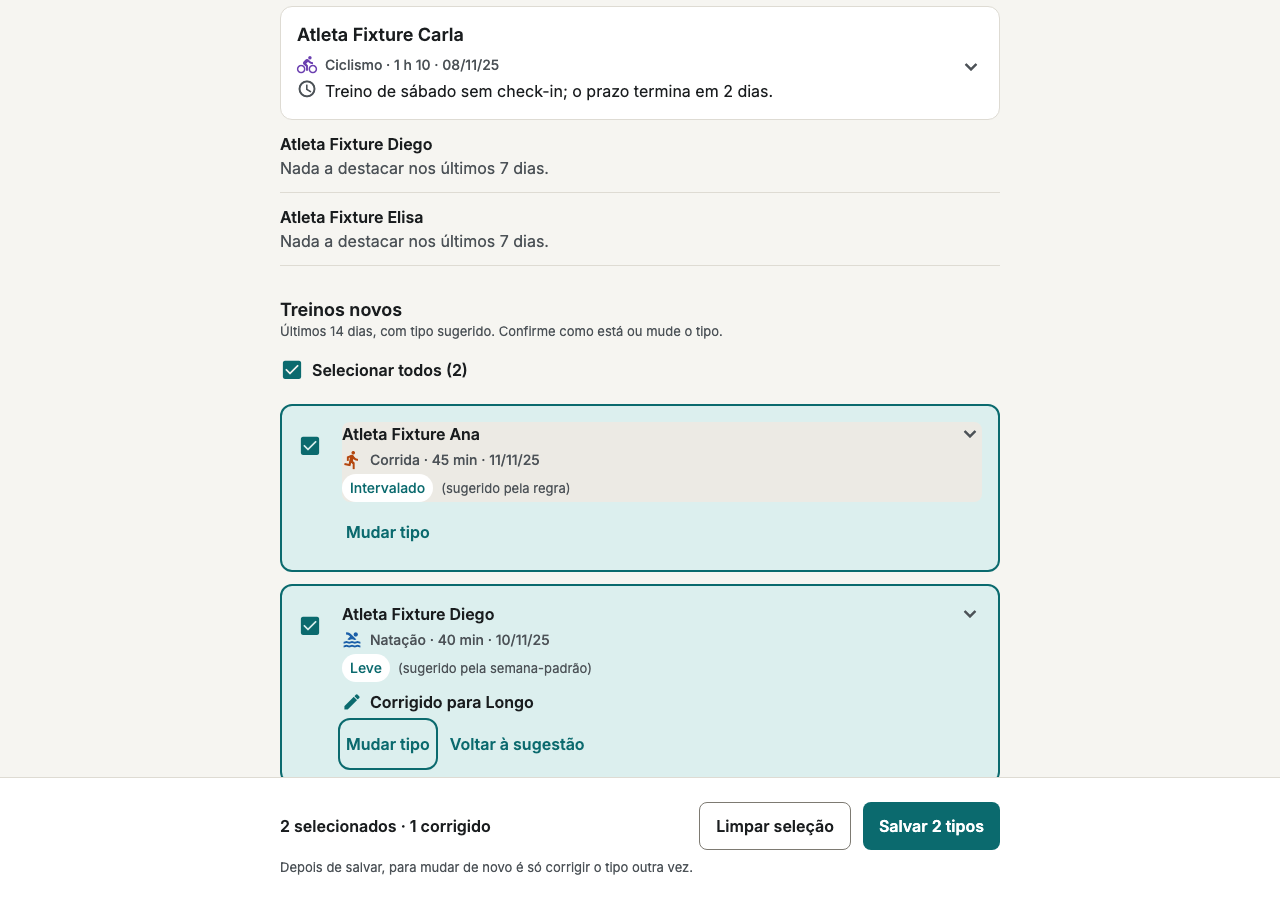
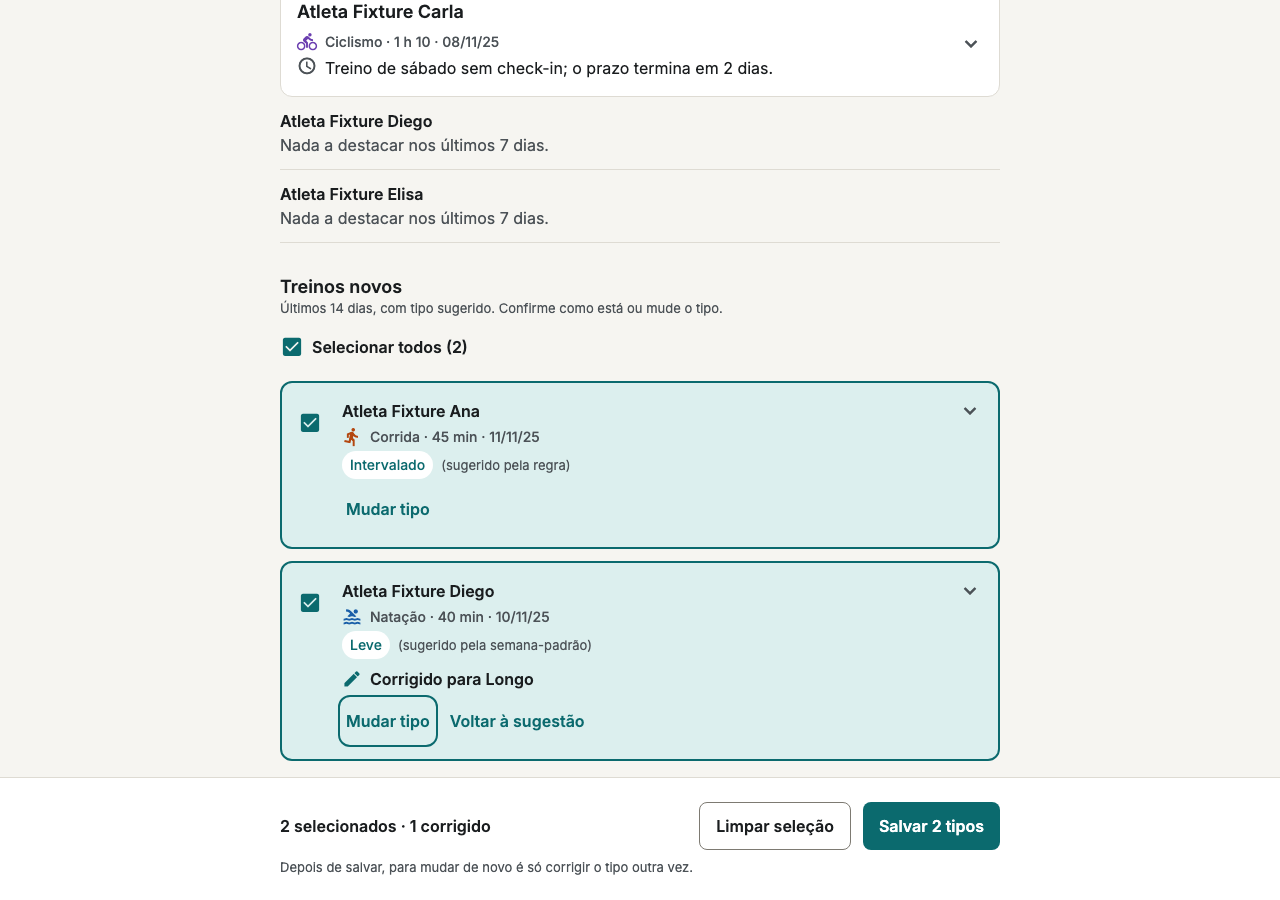
Caixa do dia: espaco medido da barra, fundo da folha fora do foco e texto do feedback pendente (Closes #452)

Changed region(s): [[0.2188, 0.3111, 0.7812, 0.8711], [0.2188, 0.0, 0.5938, 0.28]]

diff --git a/apps/mobile/__tests__/AjustesCaixaDoDia.test.tsx b/apps/mobile/__tests__/AjustesCaixaDoDia.test.tsx
@@ -1,0 +1,101 @@
+// Ajustes da revisão da Lia na caixa rodando (#452): espaço medido da barra, fundo da folha e texto do feedback pendente.
+import { fireEvent, render, screen, within } from "@testing-library/react-native";
+
+import type { CaixaDoDia } from "../src/caixa/api";
+import { TelaCaixaDoDia } from "../src/componentes/TelaCaixaDoDia";
+import { caixa } from "../__fixtures__/caixaDoDia";
+
+jest.mock("@expo/vector-icons", () => {
+  const { Text } = require("react-native");
+  return { MaterialIcons: ({ name, size }: { name: string; size: number }) => <Text>{`${name}:${size}`}</Text> };
+});
+
+jest.setTimeout(20000);
+
+const resposta = (status: number, corpo: unknown) => ({ ok: status >= 200 && status < 300, status, json: async () => corpo }) as Response;
+const copia = (): CaixaDoDia => JSON.parse(JSON.stringify(caixa));
+const api = (get: CaixaDoDia = caixa, put: () => Response = () => resposta(200, { confirmados: 1, corrigidos: 0 })) =>
+  jest.fn(async (_u: RequestInfo | URL, init?: RequestInit) => (init?.method === "PUT" ? put() : resposta(200, get))) as unknown as typeof fetch;
+const aberta = async (f: typeof fetch) => {
+  await render(<TelaCaixaDoDia apiUrl="http://api.teste" professorId={7} fetchFn={f} />);
+  await screen.findByTestId("resumo");
+};
+const espacoFinal = () => {
+  const estilo = [screen.getByTestId("rolagem-tela").props.contentContainerStyle].flat(5).filter(Boolean);
+  return estilo.reduce((a: number | undefined, x: { paddingBottom?: number }) => x.paddingBottom ?? a, undefined) as number | undefined;
+};
+const medir = (altura: number) => fireEvent(screen.getByTestId("barra-lote"), "layout", { nativeEvent: { layout: { x: 0, y: 0, width: 390, height: altura } } });
+
+describe("espaço no fim da lista = altura medida da barra + espaco.4", () => {
+  it("usa a altura medida (e não um valor fixo)", async () => {
+    await aberta(api());
+    await fireEvent.press(screen.getByTestId("selecionar-511"));
+    await medir(171);
+    expect(espacoFinal()).toBe(171 + 16);
+  });
+
+  it("acompanha a barra quando ela cresce com o aviso de erro e quando encolhe", async () => {
+    const f = api(caixa, () => resposta(404, { detail: [{ type: "atividade_nao_encontrada" }] }));
+    await aberta(f);
+    await fireEvent.press(screen.getByTestId("selecionar-511"));
+    await medir(140);
+    expect(espacoFinal()).toBe(156);
+    await fireEvent.press(screen.getByText("Salvar 1 tipo"));
+    await screen.findByTestId("erro-lote");
+    await medir(236);
+    expect(espacoFinal()).toBe(252);
+    await medir(140);
+    expect(espacoFinal()).toBe(156);
+  });
+
+  it("sem barra, não reserva espaço extra", async () => {
+    await aberta(api());
+    expect(espacoFinal()).toBeUndefined();
+  });
+});
+
+describe("fundo da folha de tipo", () => {
+  it("fica fora da ordem de foco e da árvore de acessibilidade; só o botão 'Fechar' tem esse rótulo", async () => {
+    await aberta(api());
+    await fireEvent.press(screen.getByTestId("mudar-tipo-511"));
+    const fundo = screen.getByTestId("fundo-folha", { includeHiddenElements: true });
+    expect(fundo.props.accessible).toBe(false);
+    expect(fundo.props.focusable).toBe(false);
+    expect(fundo.props["aria-hidden"]).toBe(true);
+    expect(fundo.props.importantForAccessibility).toBe("no");
+    expect(fundo.props.accessibilityLabel).toBeUndefined();
+    expect(screen.getAllByLabelText("Fechar")).toHaveLength(1);
+  });
+
+  it("tocar no fundo e o botão 'Fechar' continuam fechando; a folha não fica dentro do fundo oculto", async () => {
+    await aberta(api());
+    await fireEvent.press(screen.getByTestId("mudar-tipo-511"));
+    await fireEvent.press(screen.getByTestId("fundo-folha", { includeHiddenElements: true }));
+    expect(screen.queryByText("Tipo do treino")).toBeNull();
+    await fireEvent.press(screen.getByTestId("mudar-tipo-511"));
+    expect(screen.getByText("Tipo do treino")).toBeTruthy();
+    await fireEvent.press(screen.getByLabelText("Fechar"));
+    expect(screen.queryByText("Tipo do treino")).toBeNull();
+  });
+});
+
+describe("feedback pendente na caixa", () => {
+  it("diz 'O feedback ainda não está pronto.' e não manda tocar em Atualizar", async () => {
+    const c = copia();
+    c.alunos[0].treinos[0].detalhe.feedback = {
+      estado: "pendente",
+      mensagem: "O feedback deste treino ainda não foi gerado. Toque em Atualizar para ver se já está pronto.",
+    };
+    await aberta(api(c));
+    await fireEvent.press(screen.getByTestId("treino-501"));
+    const d = screen.getByTestId("detalhe-501");
+    expect(within(d).getByText("O feedback ainda não está pronto.")).toBeTruthy();
+    expect(screen.queryByText(/Toque em Atualizar/)).toBeNull();
+  });
+
+  it("os outros estados seguem a mensagem da API", async () => {
+    await aberta(api());
+    await fireEvent.press(screen.getByTestId("treino-503"));
+    expect(within(screen.getByTestId("detalhe-503")).getByText("O prazo do check-in deste treino acabou.")).toBeTruthy();
+  });
+});

diff --git a/apps/mobile/src/componentes/TelaCaixaDoDia.tsx b/apps/mobile/src/componentes/TelaCaixaDoDia.tsx
@@ -95,6 +95,8 @@ export function TelaCaixaDoDia({ apiUrl, professorId, fetchFn }: Props) {
   const [sucesso, setSucesso] = useState<string | null>(null);
   const [folha, setFolha] = useState<number | null>(null);
   const [anuncio, setAnuncio] = useState("");
+  // Altura medida da barra de lote: o fim da lista reserva essa altura mais `espaco.4` (muda com o aviso de erro aberto).
+  const [alturaBarra, setAlturaBarra] = useState(0);
   const rolagem = useRef<ComponentRef<typeof ScrollView>>(null);
   const tituloNovos = useRef<ComponentRef<typeof Text>>(null);
   const linhasNovas = useRef(new Map<number, ComponentRef<typeof View> | null>());
@@ -261,7 +263,7 @@ export function TelaCaixaDoDia({ apiUrl, professorId, fetchFn }: Props) {
 
   return (
     <View style={styles.raiz}>
-    <ScrollView ref={rolagem} testID="rolagem-tela" contentContainerStyle={[styles.container, barra && { paddingBottom: erroLote ? 240 : 150 }]}>
+    <ScrollView ref={rolagem} testID="rolagem-tela" contentContainerStyle={[styles.container, barra && { paddingBottom: alturaBarra + espaco[4] }]}>
       <View style={styles.cabecalho}>
         <View style={styles.cabecalhoTextos}>
           <Text accessibilityRole="header" aria-level={1} style={styles.titulo}>
@@ -410,7 +412,7 @@ export function TelaCaixaDoDia({ apiUrl, professorId, fetchFn }: Props) {
         </View>
       )}
     </ScrollView>
-    {barra && <BarraLote selecionados={selecao.size} corrigidos={corrigidos} salvando={salvando} erro={erroLote} aoLimpar={limparSelecao} aoSalvar={() => void salvar()} aoAtualizar={atualizarDoErro} />}
+    {barra && <BarraLote selecionados={selecao.size} corrigidos={corrigidos} salvando={salvando} erro={erroLote} aoLimpar={limparSelecao} aoSalvar={() => void salvar()} aoAtualizar={atualizarDoErro} aoMedir={setAlturaBarra} />}
     {noFolha && (
       <FolhaTipo
         visivel
@@ -589,7 +591,8 @@ function Detalhe({ detalhe, testID, irParaNovo, styles, tema }: { detalhe: Detal
   const c = detalhe.checkin;
   const sensacao = c ? SENSACOES.find((s) => s.valor === c.sensacao) : undefined;
   const f = detalhe.feedback;
-  const feedback = f ? (f.estado === "pronto" && f.texto ? f.texto : f.mensagem) : null;
+  // A mensagem de "pendente" da API fala com o atleta ("Toque em Atualizar..."); na caixa o único "Atualizar" é o ícone do topo.
+  const feedback = f ? (f.estado === "pronto" && f.texto ? f.texto : f.estado === "pendente" ? "O feedback ainda não está pronto." : f.mensagem) : null;
   const tipo = detalhe.tipo_texto ?? "Sem tipo";
   const linha = (rotulo: string, valor: string, extra?: string, icone?: (typeof SENSACOES)[number]["icone"]) => (
     <View style={styles.detalheLinha}>

diff --git a/apps/mobile/src/componentes/FolhaTipo.tsx b/apps/mobile/src/componentes/FolhaTipo.tsx
@@ -33,8 +33,18 @@ export function FolhaTipo({ visivel, subtitulo, sugerido, escolhido, aoEscolher,
   const styles = useMemo(() => criarEstilos(tema, computador), [tema, computador]);
   return (
     <Modal visible={visivel} transparent animationType="none" onRequestClose={aoFechar} accessibilityViewIsModal>
-      <Pressable testID="fundo-folha" accessibilityLabel="Fechar" onPress={aoFechar} style={styles.fundo}>
-        <Pressable role="dialog" aria-modal aria-label="Tipo do treino" accessible={false} onPress={() => {}} style={styles.folha}>
+      <View style={styles.fundo}>
+        {/* O fundo só fecha com toque: fora da ordem de foco e da árvore de acessibilidade (Esc e o botão "Fechar" fecham pelo teclado e pelo leitor). */}
+        <Pressable
+          testID="fundo-folha"
+          accessible={false}
+          focusable={false}
+          importantForAccessibility="no"
+          aria-hidden
+          onPress={aoFechar}
+          style={StyleSheet.absoluteFill}
+        />
+        <View role="dialog" aria-modal aria-label="Tipo do treino" style={styles.folha}>
           <View style={styles.topo}>
             <Text ref={titulo} {...FOCAVEL} accessibilityRole="header" style={styles.titulo}>
               Tipo do treino
@@ -65,8 +75,8 @@ export function FolhaTipo({ visivel, subtitulo, sugerido, escolhido, aoEscolher,
               );
             })}
           </View>
-        </Pressable>
-      </Pressable>
+        </View>
+      </View>
     </Modal>
   );
 }

diff --git a/apps/mobile/scripts/capturas-lib.js b/apps/mobile/scripts/capturas-lib.js
@@ -20,9 +20,9 @@ const ROTAS = [
   { nome: "caixa-do-dia-sem-motivo", caminho: "/caixa-do-dia", simular: "sem-motivo" },
   { nome: "caixa-do-dia-erro-rede", caminho: "/caixa-do-dia", simular: "rede" },
   { nome: "caixa-do-dia-404", caminho: "/caixa-do-dia", simular: "404" },
-  // Lote (#427): `teclar` aperta teclas (anel de foco por teclado); as demais abrem a folha, selecionam e salvam.
+  // Lote (#427): `rolarAoFim` rola a lista até o fim (o último cartão tem de caber inteiro acima da barra); `teclar` aperta teclas (anel de foco por teclado); as demais abrem a folha, selecionam e salvam.
   { nome: "caixa-do-dia-foco", caminho: "/caixa-do-dia", teclar: ["Tab", "Tab"] },
-  { nome: "caixa-do-dia-selecao", caminho: "/caixa-do-dia", clicar: ["selecionar-511", "mudar-tipo-512", "tipo-longo"] },
+  { nome: "caixa-do-dia-selecao", caminho: "/caixa-do-dia", clicar: ["selecionar-511", "mudar-tipo-512", "tipo-longo"], rolarAoFim: true },
   { nome: "caixa-do-dia-folha", caminho: "/caixa-do-dia", clicar: ["selecionar-511", "mudar-tipo-512"] },
   { nome: "caixa-do-dia-salvando", caminho: "/caixa-do-dia", simular: "salvando", clicar: ["selecionar-511", "selecionar-512", "salvar-lote"] },
   { nome: "caixa-do-dia-lote-erro", caminho: "/caixa-do-dia", simular: "lote-erro", clicar: ["selecionar-511", "selecionar-512", "salvar-lote"] },

diff --git a/apps/mobile/src/componentes/BarraLote.tsx b/apps/mobile/src/componentes/BarraLote.tsx
@@ -17,17 +17,19 @@ type Props = {
   aoSalvar: () => void;
   /** "Atualizar" do erro: atualiza a lista e limpa a seleção. */
   aoAtualizar: () => void;
+  /** Altura medida da barra (`onLayout`), para a lista reservar o espaço certo no fim. */
+  aoMedir?: (altura: number) => void;
 };
 
 export const textoSelecionados = (n: number, c: number) => `${n} ${n === 1 ? "selecionado" : "selecionados"} · ${c} ${c === 1 ? "corrigido" : "corrigidos"}`;
 export const textoSalvar = (n: number) => `Salvar ${n} ${n === 1 ? "tipo" : "tipos"}`;
 
-export function BarraLote({ selecionados, corrigidos, salvando, erro, aoLimpar, aoSalvar, aoAtualizar }: Props) {
+export function BarraLote({ selecionados, corrigidos, salvando, erro, aoLimpar, aoSalvar, aoAtualizar, aoMedir }: Props) {
   const tema = useTema();
   const margem = useMargemTela();
   const styles = useMemo(() => criarEstilos(tema, margem), [tema, margem]);
   return (
-    <View role="region" aria-label="Ações do lote" testID="barra-lote" style={styles.barra}>
+    <View role="region" aria-label="Ações do lote" testID="barra-lote" style={styles.barra} onLayout={(e) => aoMedir?.(e.nativeEvent.layout.height)}>
       <View style={styles.miolo}>
         {erro && (
           <View testID="erro-lote" accessibilityRole="alert" style={styles.erro}>

diff --git a/apps/mobile/__tests__/LoteCaixaDoDia.test.tsx b/apps/mobile/__tests__/LoteCaixaDoDia.test.tsx
@@ -130,7 +130,7 @@ describe("lote: folha de tipo", () => {
   it("'Fechar' fecha sem mudar nada", async () => {
     await aberta(api(ok({})));
     await fireEvent.press(screen.getByTestId("mudar-tipo-511"));
-    await fireEvent.press(screen.getAllByLabelText("Fechar")[1]);
+    await fireEvent.press(screen.getByLabelText("Fechar"));
     expect(screen.queryByText("Tipo do treino")).toBeNull();
     expect(screen.queryByTestId("barra-lote")).toBeNull();
   });

diff --git a/apps/mobile/__tests__/capturas.test.ts b/apps/mobile/__tests__/capturas.test.ts
@@ -59,6 +59,9 @@ describe("rotas da caixa do dia (#426)", () => {
       "caixa-do-dia-escuro-390-alto.png",
     ]);
   });
+  it("a captura -selecao rola a lista até o fim", () => {
+    expect(caixa.find((r: any) => r.nome === "caixa-do-dia-selecao").rolarAoFim).toBe(true);
+  });
   it("toda simulação pedida existe", () => {
     for (const r of caixa) if (r.simular) expect(SIMULACOES[r.simular]).toBeDefined();
   });

diff --git a/apps/mobile/__tests__/FocoCaixaDoDia.test.tsx b/apps/mobile/__tests__/FocoCaixaDoDia.test.tsx
@@ -52,7 +52,7 @@ describe("folha de tipo", () => {
     await aberta(api());
     await fireEvent.press(screen.getByTestId("mudar-tipo-511"));
     await waitFor(() => expect(foco.focar).toHaveBeenCalled());
-    await fireEvent.press(screen.getAllByLabelText("Fechar")[1]);
+    await fireEvent.press(screen.getByLabelText("Fechar"));
     expect(screen.queryByText("Tipo do treino")).toBeNull();
   });
 });

diff --git a/docs/modulos/mobile.md b/docs/modulos/mobile.md
@@ -29,7 +29,7 @@ O app não calcula pace: todo `m:ss` virá da [[modulos/api]].
 | `src/app/caixa-do-dia.tsx` | `/caixa-do-dia` | `TelaCaixaDoDia` (#426), com `config.apiUrl` e `config.professorId`; ainda não é a página inicial (a `/` segue a evolução do atleta) |
 
 ## Caixa do dia do professor (`TelaCaixaDoDia`, #426)
-`src/componentes/TelaCaixaDoDia.tsx`, spec [[design/telas/caixa-do-dia]], ADR [[decisoes/0015-caixa-do-dia-do-professor]]. Chama `buscarCaixaDoDia` (`src/caixa/api.ts`, `GET /professores/{id}/caixa-do-dia`) e mostra: título, data de hoje, botão "Atualizar", resumo, seção "Para olhar hoje" (cartão por aluno, um motivo por linha com o texto da API e o ícone do código; aluno sem motivo em linha compacta) e "Treinos novos" (chip do tipo sugerido e origem, caixa de seleção, "Mudar tipo" e o lote da #427). O app não reordena, não calcula motivo nem janela. Detalhe do treino é **acordeão** dentro da lista (sem rota nova; vários abertos; fecha ao atualizar): tipo, esforço, sensação, atalhos (texto, não tocáveis), feedback e, só ali, "Observação do aluno" com "Só você vê. Não vai ao provedor de IA." A observação nunca entra em rótulo de acessibilidade, anúncio, log ou armazenamento. Estados: carregando (esqueleto), sem alunos, ninguém com motivo, sem novos, erro de rede e `5xx` ("Tentar de novo"), 404 uniforme ou sem professor ("Caixa do dia não encontrada", sem tentar de novo), erro ao atualizar (aviso e a lista antiga fica). Coluna de 720 no computador. **Lote (#427):** nenhum treino novo vem selecionado; "Selecionar todos (N)" marca no máximo 200 (com mais, avisa). Escolher outro tipo na folha "Tipo do treino" (`FolhaTipo`, cinco opções em grupo de rádio, etiqueta "Sugerido"; folha de baixo no celular, caixa de 400 centrada a partir de 900 de largura) seleciona a linha e mostra "Corrigido para ..."; "Voltar à sugestão" tira a correção e mantém a seleção. A barra fixa `BarraLote` só existe com seleção e diz "N selecionados · N corrigidos" antes de salvar, sem diálogo. "Salvar N tipos" chama `confirmarTiposDeTreino` (`PUT /professores/{id}/tipos-de-treino`, corpo só com `atividade_id` e `tipo_treino`, na ordem da API) e, com `200`, anuncia "3 treinos salvos: 2 confirmados e 1 corrigido." (números da resposta), limpa a seleção e busca a caixa de novo; se essa busca falhar, diz que o salvo está salvo. Recusa (404 `atividade_nao_encontrada`, 422 `atividade_sem_tipo`, 422 de validação, rede, 5xx): nada foi salvo, a seleção e as correções ficam, aviso `alert` acima da barra ("Atualizar" limpa a seleção quando faz sentido). Anúncios: região viva sempre montada (Android) mais `announceForAccessibility` (iOS e web), só texto. Anel de foco `borda.foco` em `cor.foco` nos botões (`src/tema/foco.ts`). Testes: `__tests__/LoteCaixaDoDia.test.tsx`. Foco (`src/navegacao/foco.ts`, `FocoCaixaDoDia.test.tsx`): depois de salvar o foco vai ao título "Treinos novos"; a folha leva o foco ao título ao abrir, prende o Tab (o `Modal` do react-native-web já faz) e devolve o foco ao "Mudar tipo" ao fechar (guardado ao abrir). Conferido no Chromium com Tab, Enter e Esc (título focado, 12 Tabs sempre dentro do diálogo, foco de volta no botão). O botão "Confirmar ou corrigir em Treinos novos" aparece no detalhe de um treino com divergência que ainda está em "Treinos novos", rola até a linha e a foca; sem a linha, o botão não aparece. Chip do tipo em `cor.superficie` na linha selecionada. Não verificado com leitor de tela de verdade nem no celular (a rolagem e o foco nativos usam `measureLayout` e `setAccessibilityFocus`). Testes: `__tests__/TelaCaixaDoDia.test.tsx`, fixture sintética `__fixtures__/caixaDoDia.ts`. API falsa: `GET /professores/{id}/caixa-do-dia` (1 conteúdo, 2 sem alunos, 3 sem motivo, 4 derruba a conexão, 5 e acima de 6 404, 6 500) e `PUT /professores/{id}/tipos-de-treino` (valida o lote, aceita só os ids 511 e 512, devolve as contagens e **não grava**). Capturas (`npm run capturas`): `caixa-do-dia`, `-detalhe`, `-sem-alunos`, `-sem-motivo`, `-erro-rede` e `-404` (os estados são simulados no navegador sobre a resposta da API falsa), mais `-foco` (Tab duas vezes), `-selecao`, `-folha`, `-salvando`, `-lote-erro` e `-lote-salvo` (#427), em `docs/design/telas/caixa-do-dia/`.
+`src/componentes/TelaCaixaDoDia.tsx`, spec [[design/telas/caixa-do-dia]], ADR [[decisoes/0015-caixa-do-dia-do-professor]]. Chama `buscarCaixaDoDia` (`src/caixa/api.ts`, `GET /professores/{id}/caixa-do-dia`) e mostra: título, data de hoje, botão "Atualizar", resumo, seção "Para olhar hoje" (cartão por aluno, um motivo por linha com o texto da API e o ícone do código; aluno sem motivo em linha compacta) e "Treinos novos" (chip do tipo sugerido e origem, caixa de seleção, "Mudar tipo" e o lote da #427). O app não reordena, não calcula motivo nem janela. Detalhe do treino é **acordeão** dentro da lista (sem rota nova; vários abertos; fecha ao atualizar): tipo, esforço, sensação, atalhos (texto, não tocáveis), feedback e, só ali, "Observação do aluno" com "Só você vê. Não vai ao provedor de IA." A observação nunca entra em rótulo de acessibilidade, anúncio, log ou armazenamento. Estados: carregando (esqueleto), sem alunos, ninguém com motivo, sem novos, erro de rede e `5xx` ("Tentar de novo"), 404 uniforme ou sem professor ("Caixa do dia não encontrada", sem tentar de novo), erro ao atualizar (aviso e a lista antiga fica). Coluna de 720 no computador. **Lote (#427):** nenhum treino novo vem selecionado; "Selecionar todos (N)" marca no máximo 200 (com mais, avisa). Escolher outro tipo na folha "Tipo do treino" (`FolhaTipo`, cinco opções em grupo de rádio, etiqueta "Sugerido"; folha de baixo no celular, caixa de 400 centrada a partir de 900 de largura) seleciona a linha e mostra "Corrigido para ..."; "Voltar à sugestão" tira a correção e mantém a seleção. A barra fixa `BarraLote` só existe com seleção e diz "N selecionados · N corrigidos" antes de salvar, sem diálogo. "Salvar N tipos" chama `confirmarTiposDeTreino` (`PUT /professores/{id}/tipos-de-treino`, corpo só com `atividade_id` e `tipo_treino`, na ordem da API) e, com `200`, anuncia "3 treinos salvos: 2 confirmados e 1 corrigido." (números da resposta), limpa a seleção e busca a caixa de novo; se essa busca falhar, diz que o salvo está salvo. Recusa (404 `atividade_nao_encontrada`, 422 `atividade_sem_tipo`, 422 de validação, rede, 5xx): nada foi salvo, a seleção e as correções ficam, aviso `alert` acima da barra ("Atualizar" limpa a seleção quando faz sentido). Anúncios: região viva sempre montada (Android) mais `announceForAccessibility` (iOS e web), só texto. Anel de foco `borda.foco` em `cor.foco` nos botões (`src/tema/foco.ts`). O fim da lista reserva a altura medida da barra de lote (`onLayout`) mais `espaco.4` (#452); o fundo da folha não entra no foco nem na árvore de acessibilidade; o feedback pendente diz "O feedback ainda não está pronto." (a mensagem da API fala com o atleta). Testes: `__tests__/LoteCaixaDoDia.test.tsx`. Foco (`src/navegacao/foco.ts`, `FocoCaixaDoDia.test.tsx`): depois de salvar o foco vai ao título "Treinos novos"; a folha leva o foco ao título ao abrir, prende o Tab (o `Modal` do react-native-web já faz) e devolve o foco ao "Mudar tipo" ao fechar (guardado ao abrir). Conferido no Chromium com Tab, Enter e Esc (título focado, 12 Tabs sempre dentro do diálogo, foco de volta no botão). O botão "Confirmar ou corrigir em Treinos novos" aparece no detalhe de um treino com divergência que ainda está em "Treinos novos", rola até a linha e a foca; sem a linha, o botão não aparece. Chip do tipo em `cor.superficie` na linha selecionada. Não verificado com leitor de tela de verdade nem no celular (a rolagem e o foco nativos usam `measureLayout` e `setAccessibilityFocus`). Testes: `__tests__/TelaCaixaDoDia.test.tsx`, fixture sintética `__fixtures__/caixaDoDia.ts`. API falsa: `GET /professores/{id}/caixa-do-dia` (1 conteúdo, 2 sem alunos, 3 sem motivo, 4 derruba a conexão, 5 e acima de 6 404, 6 500) e `PUT /professores/{id}/tipos-de-treino` (valida o lote, aceita só os ids 511 e 512, devolve as contagens e **não grava**). Capturas (`npm run capturas`): `caixa-do-dia`, `-detalhe`, `-sem-alunos`, `-sem-motivo`, `-erro-rede` e `-404` (os estados são simulados no navegador sobre a resposta da API falsa), mais `-foco` (Tab duas vezes), `-selecao`, `-folha`, `-salvando`, `-lote-erro` e `-lote-salvo` (#427), em `docs/design/telas/caixa-do-dia/`.
 
 ## Tela de evolução (`TelaEvolucao`)
 `src/componentes/TelaEvolucao.tsx` chama `buscarEvolucaoTiros1km` e mostra um estado por vez:
